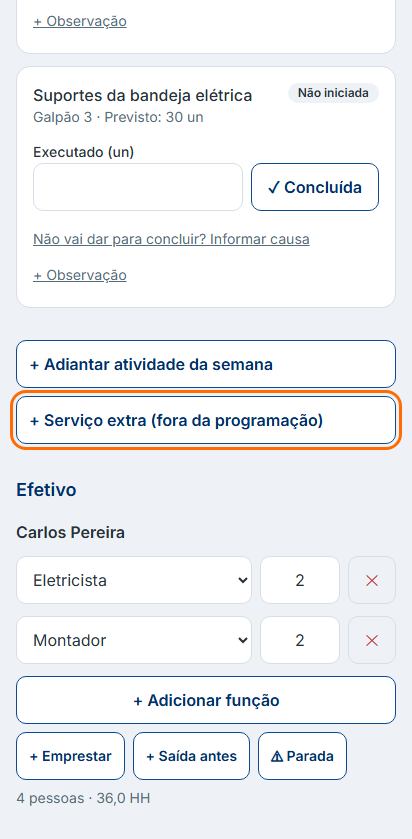
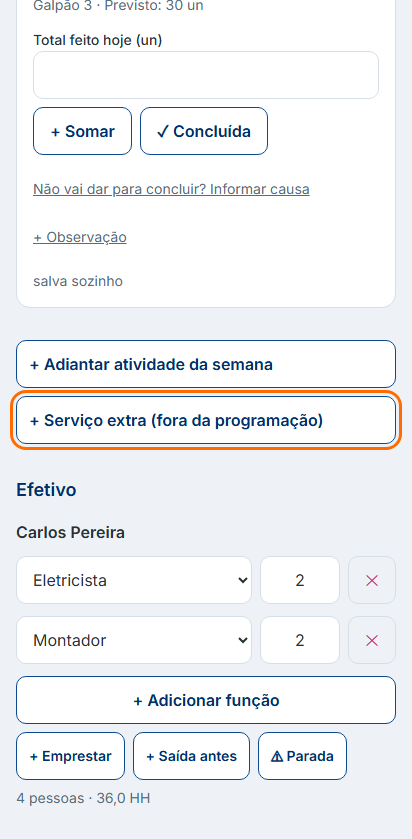
docs(ajuda): total feito hoje e somar

diff --git a/lib/ajuda/conteudo/campo.ts b/lib/ajuda/conteudo/campo.ts
@@ -23,12 +23,13 @@ export const campo: Capitulo = {
       id: "lancar",
       titulo: "Lance o que foi feito",
       texto: [
-        "Em cada atividade, digite em \"Executado\" quanto foi feito até agora. Terminou tudo? Toque em \"✓ Concluída\".",
-        "Não precisa de botão de salvar: espere aparecer \"Salvo ✓\".",
+        "Em cada atividade, \"Total feito hoje\" é tudo o que a equipe fez no dia. Fez mais um trecho? Toque em \"+ Somar\" e digite só o que fez agora: o app mostra a conta (40 + 30 = 70) antes de somar.",
+        "Terminou tudo? Toque em \"✓ Concluída\". Se já houver um número, o app pergunta antes de trocar (\"Trocar 40 por 60?\").",
+        "Não precisa de botão de salvar: tudo salva sozinho. Espere aparecer \"Salvo ✓\".",
       ],
       captura: {
-        alt: "Atividade no celular com o campo Executado e o selo Salvo",
-        alvo: { papel: "textbox", nome: "Executado" },
+        alt: "Atividade no celular com o campo Total feito hoje e o selo Salvo",
+        alvo: { papel: "textbox", nome: "Total feito hoje" },
         dispositivo: "celular",
       },
     },

diff --git a/lib/ajuda/novidades.ts b/lib/ajuda/novidades.ts
@@ -4,6 +4,11 @@ import type { Novidade } from "./tipos";
 export const NOVIDADES: Novidade[] = [
   {
     data: "2026-11-22",
+    texto: "Lançamento mais claro: \"Total feito hoje\", botão \"+ Somar\" e pergunta antes de trocar um parcial pela meta.",
+    href: "/ajuda/campo#lancar",
+  },
+  {
+    data: "2026-11-22",
     texto: "A causa só é pedida no fim: ao tocar \"Terminei minha parte\", enviar ou fechar o turno.",
     href: "/ajuda/fechar-turno#causas",
   },
